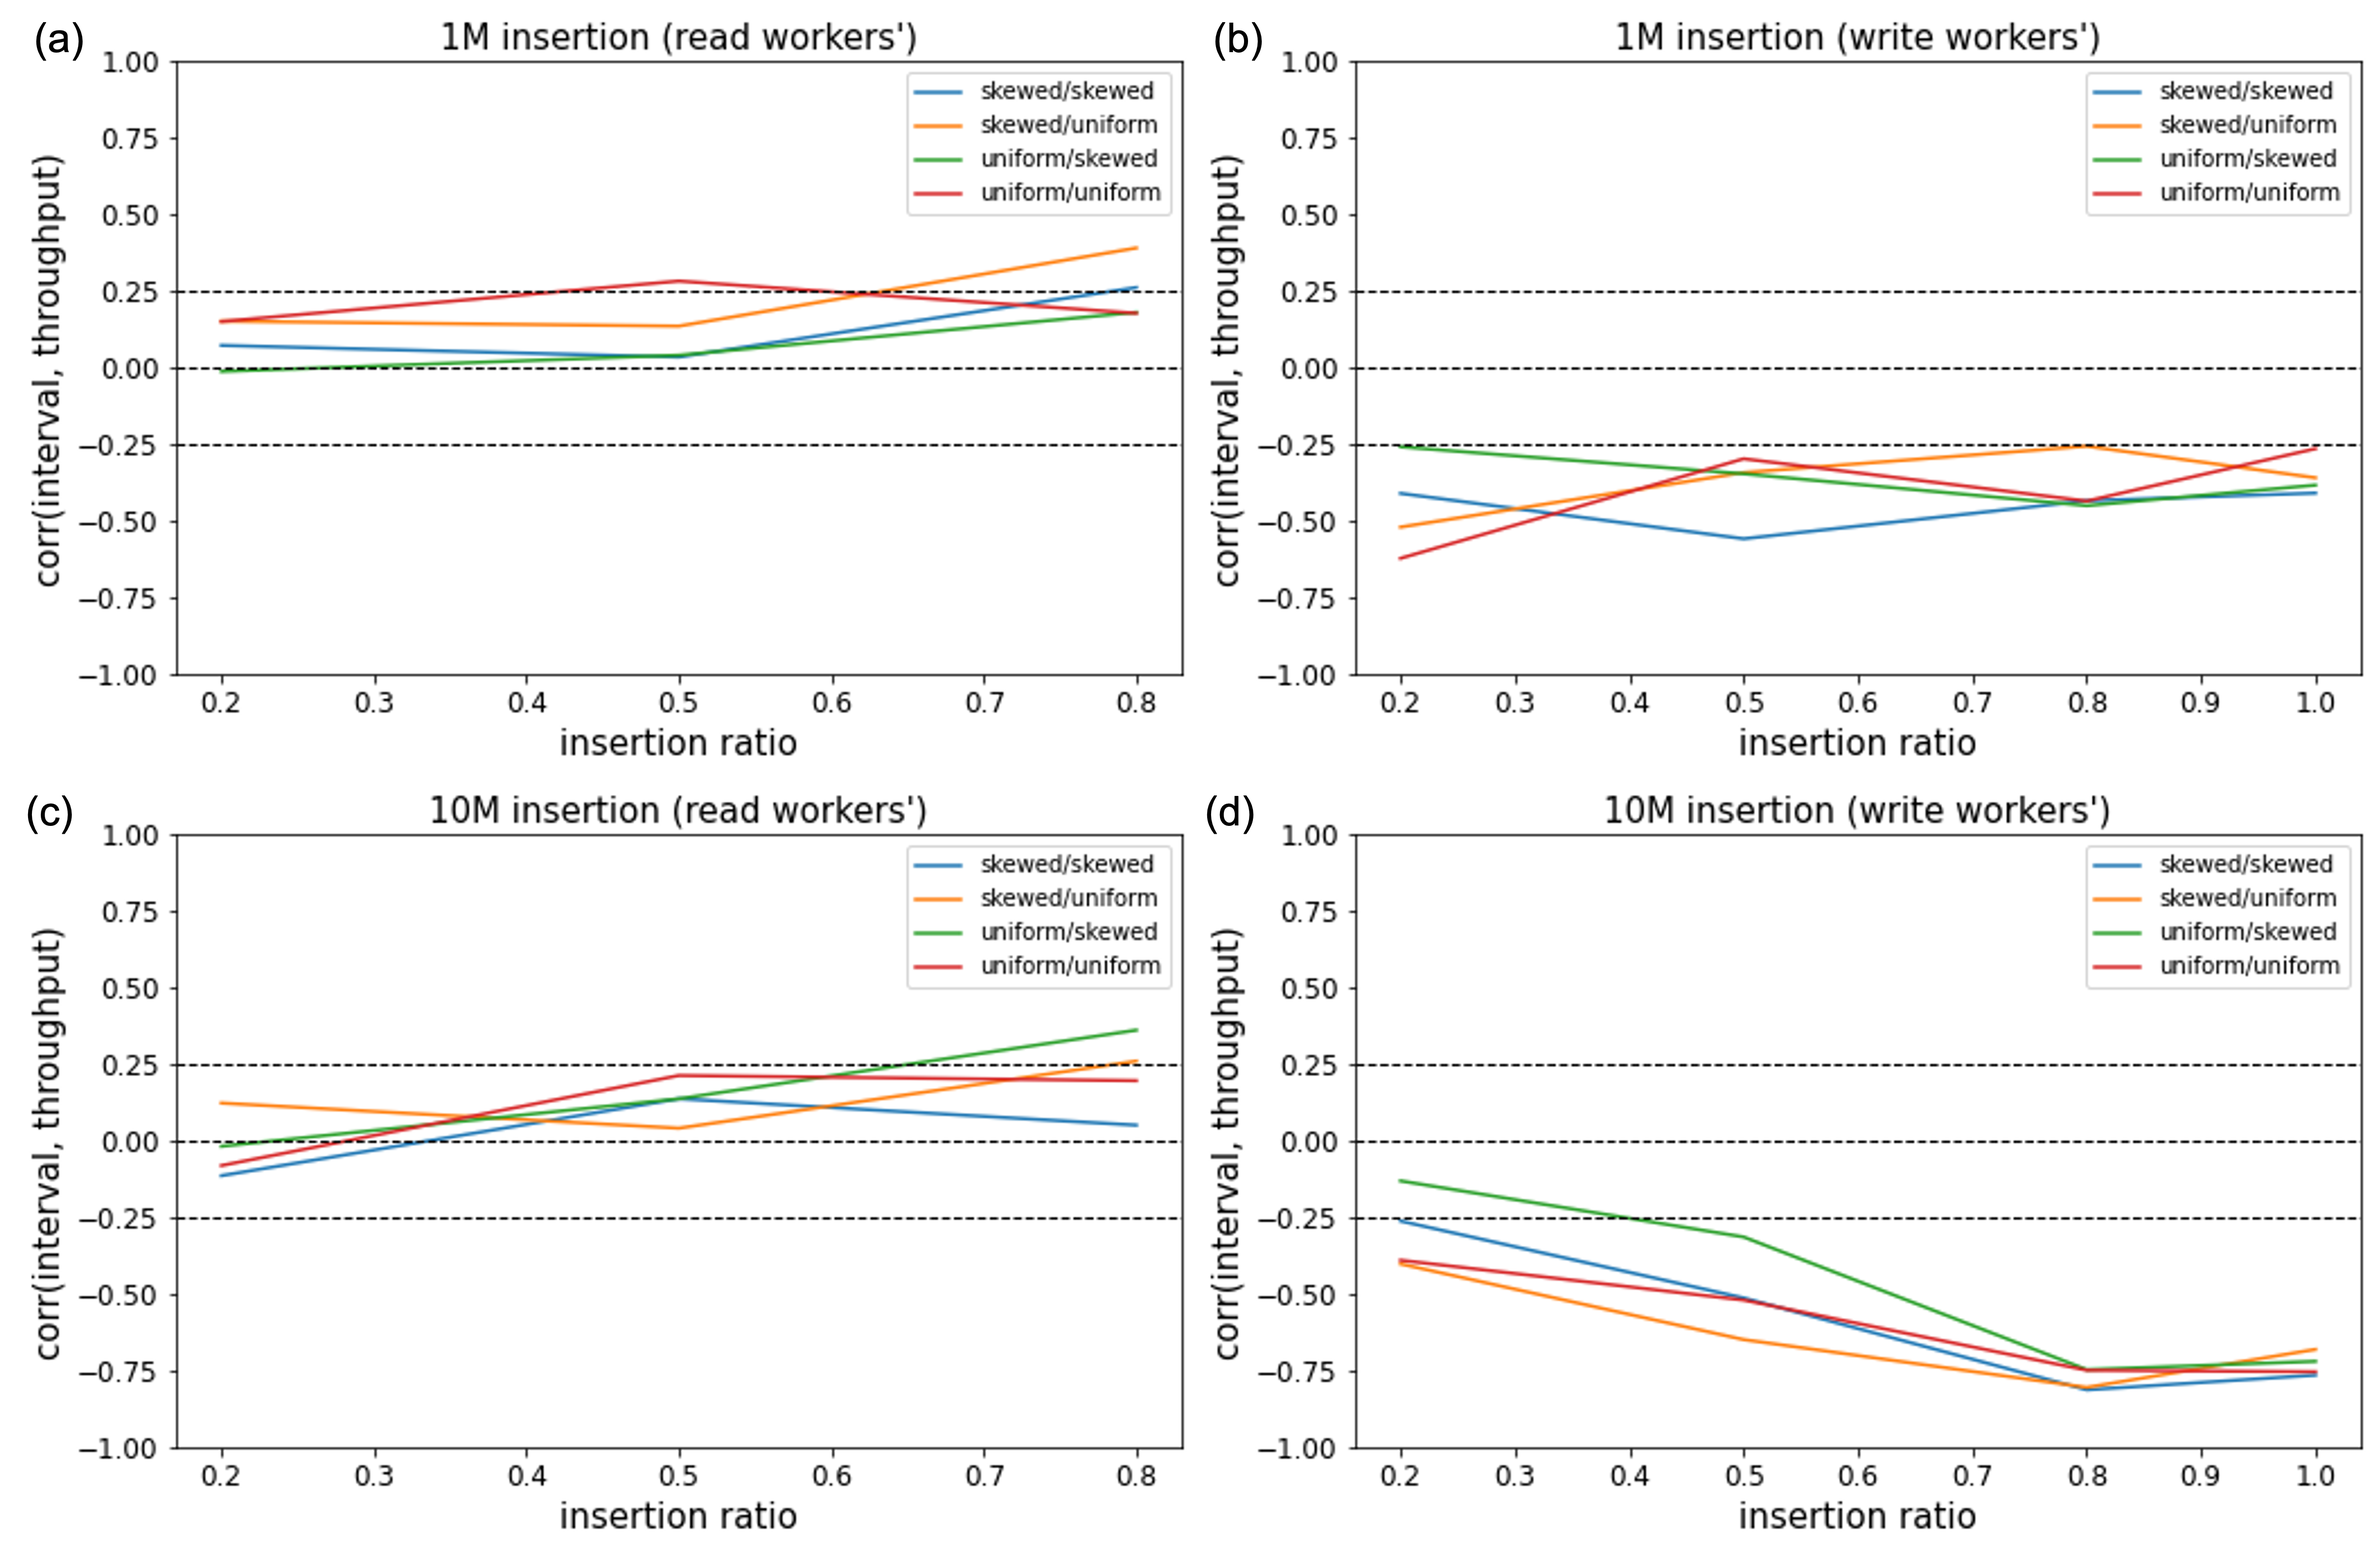
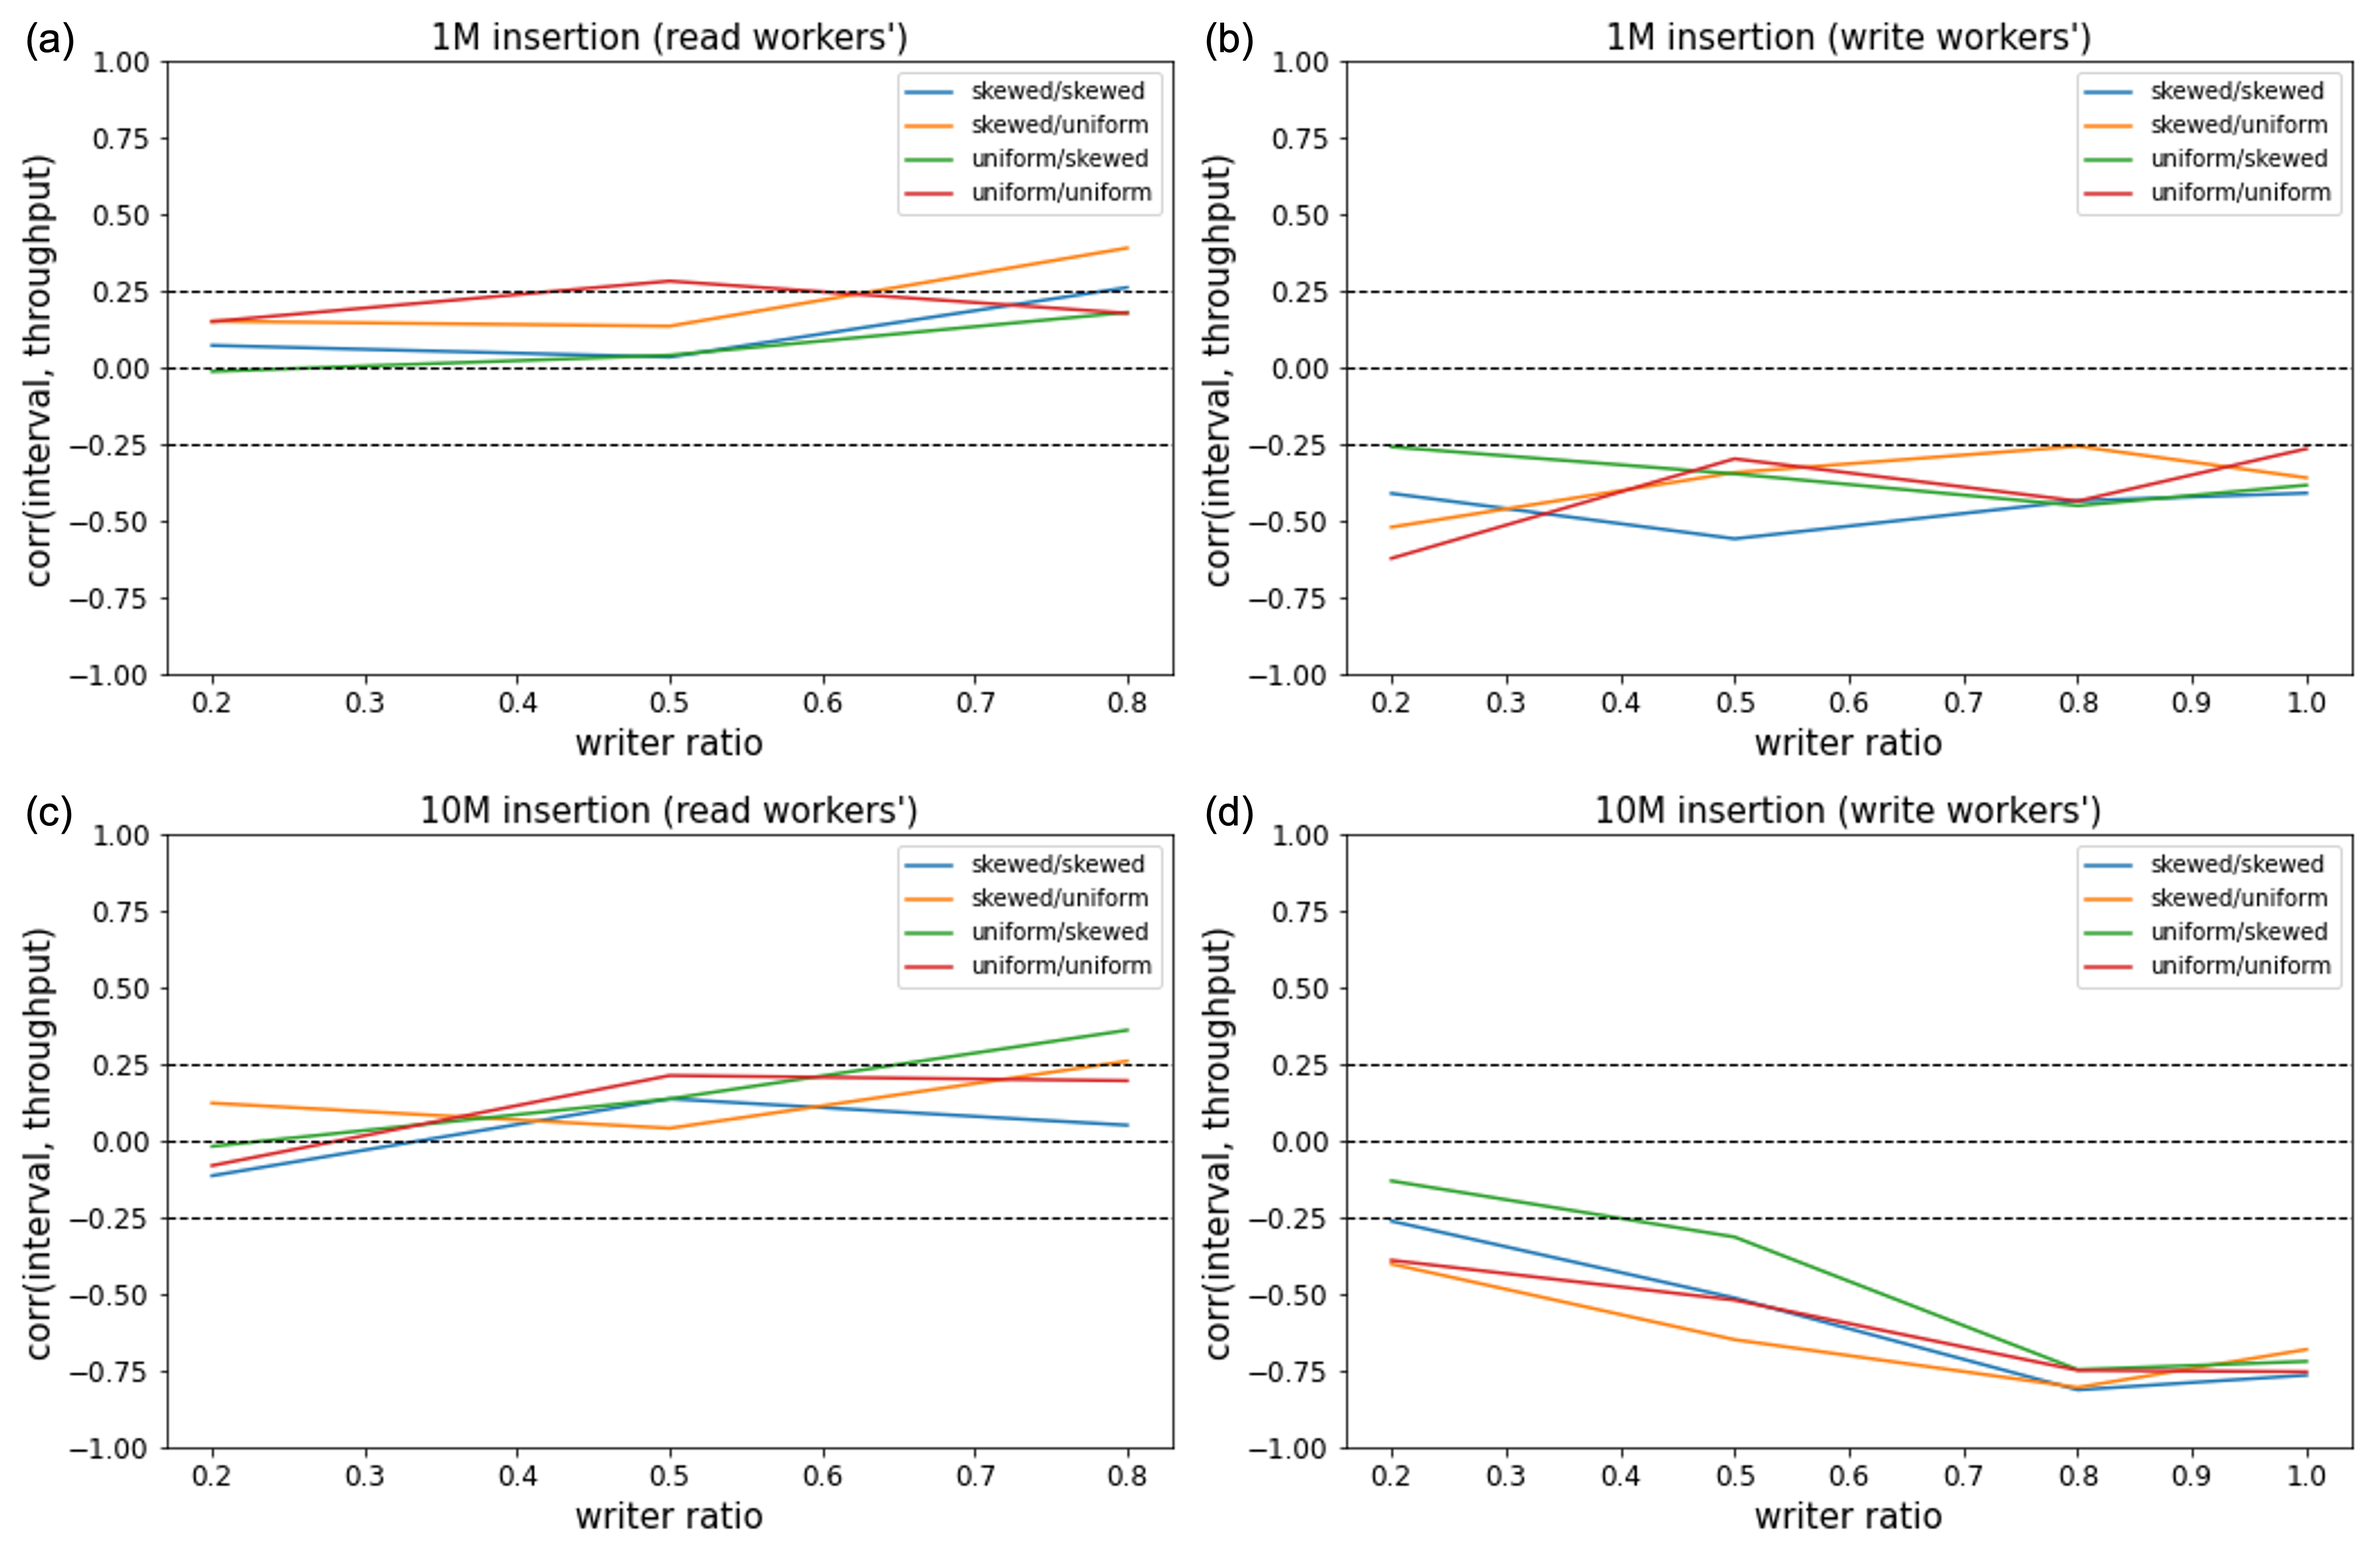
[WIP] docs: project3 experiment explanation

diff --git a/project3/README.md b/project3/README.md
@@ -21,7 +21,12 @@ All executions are performed in the environment described below.
 - RAM: DDR4 128GB
 - g++ 9.4.0
 
-In order to reduce the deviation according to the state of the computing node and randomness, the result was obtained by performing 10 times for each setting.
+The correlation between gc interval and throughput was investigated in various situations.
+There are three major variables: writer ratio and insertion/find key distributions.
+Writer ratio is the ratio of threads that only insert among several worker threads.
+If x% of workers only insert, (100-x)% of workers only find some key.
+Skewed distribution produces keys that sampled from Gaussian distribution that mean is 0 and standard deviation is 0.01. 
+In order to reduce the deviation according to the state of the computing node and randomness, the results were obtained by performing 10 times for each setting.
 
 ![corr_fig](resource/corr_fig.png)
 ▲ Figure 1) 
